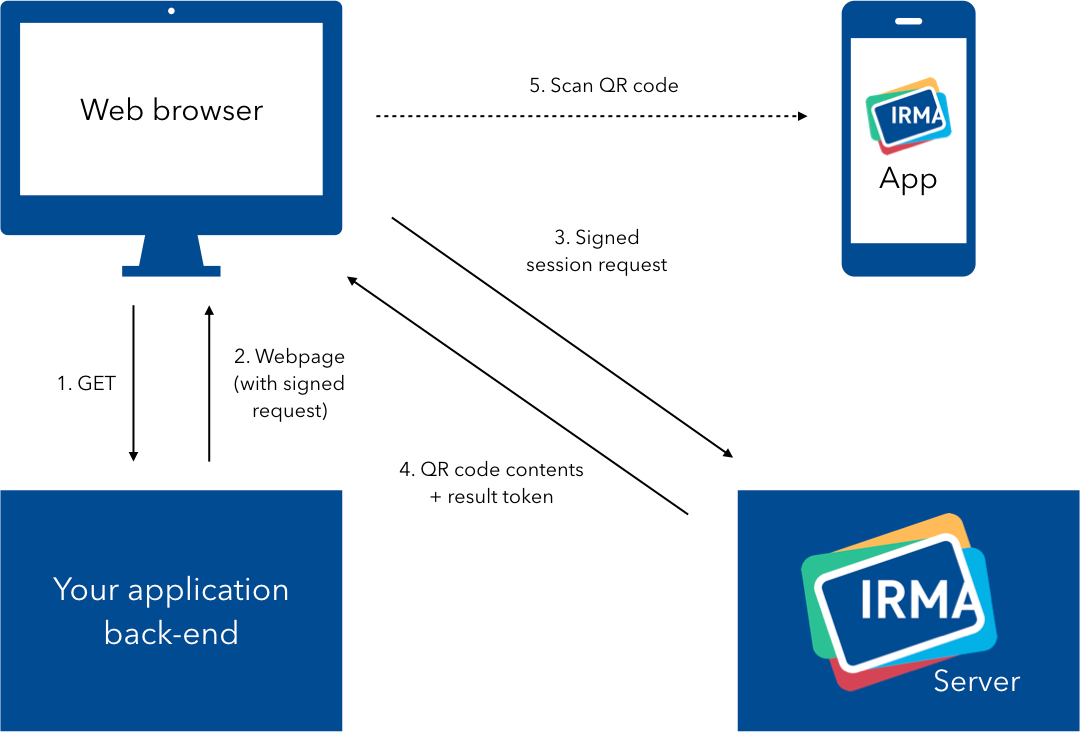
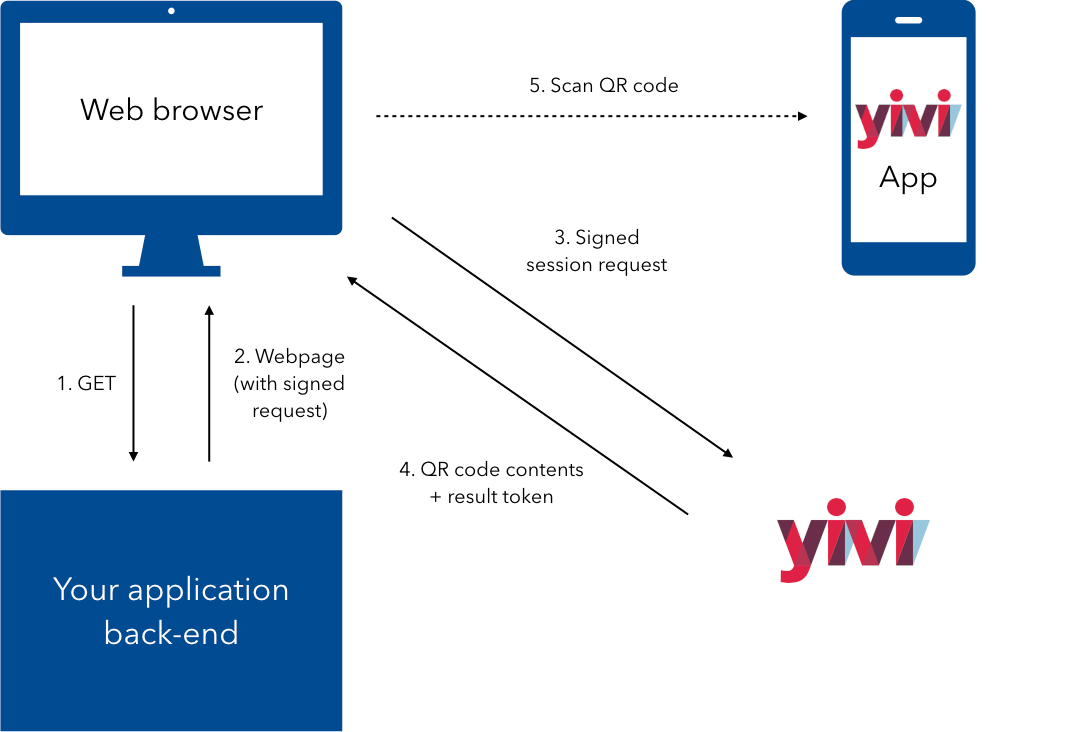
updated images to reflect name change

diff --git a/README.md b/README.md
@@ -7,7 +7,7 @@ web browser, but you can also use them to build a NodeJS client.
 
 The browser version, by default, will look like this:
 
-![Yivi flow in the browser](docs/images/example.gif)
+![Yivi flow in the browser](docs/images/example.png)
 
 The client is designed in such a way that you can combine the plugins you need
 and configure them in many useful ways. So the above design can easily be
